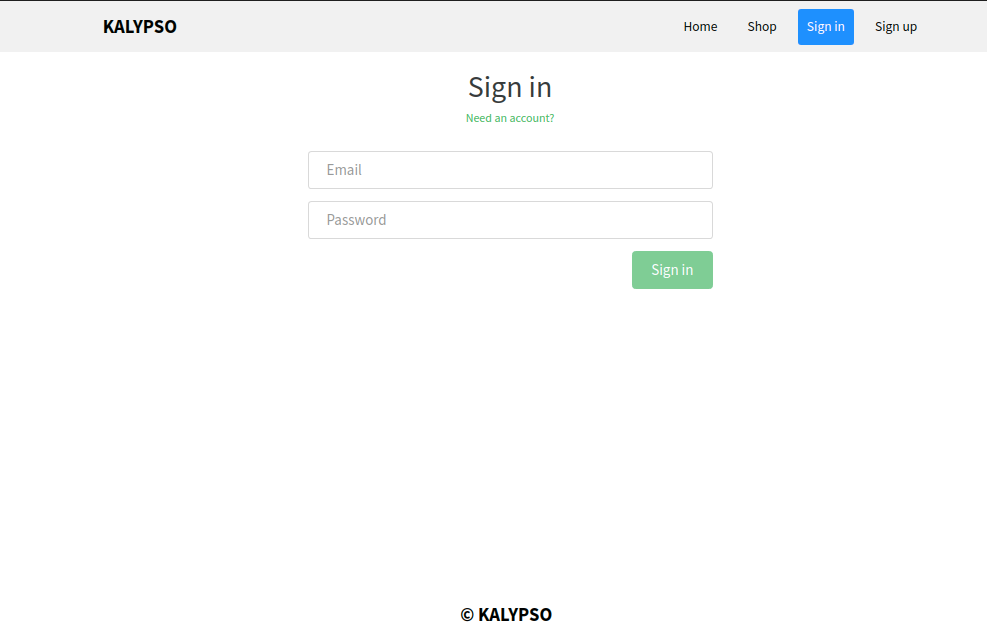
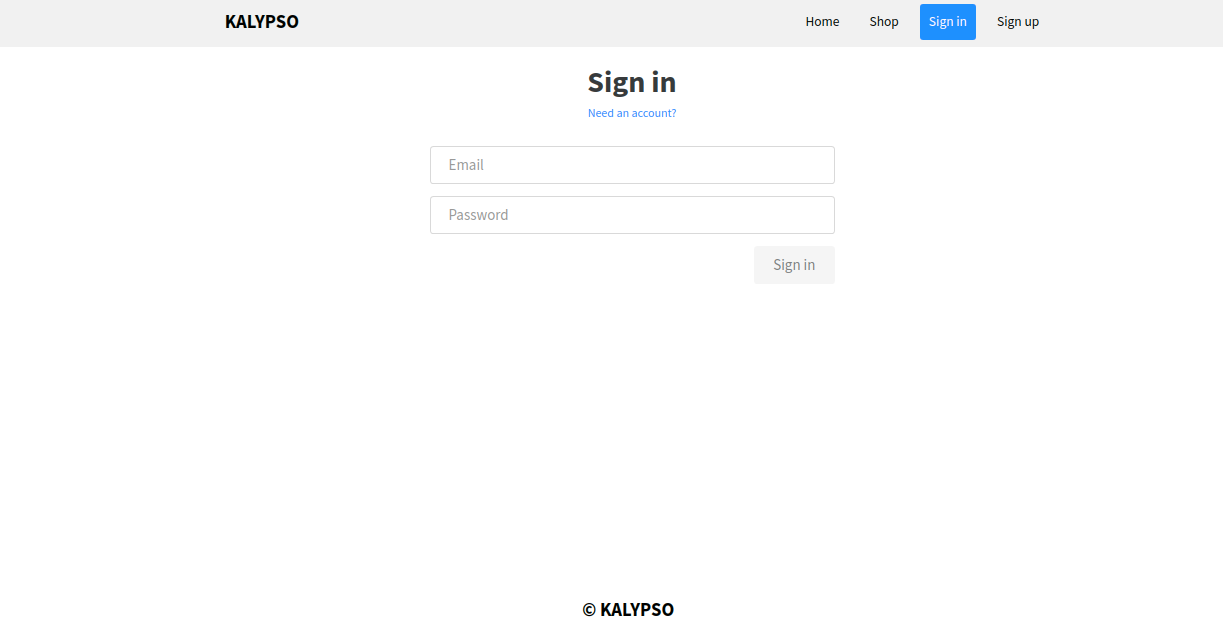
More Css changes

diff --git a/frontend/src/app/auth/auth.component.html b/frontend/src/app/auth/auth.component.html
@@ -33,7 +33,7 @@
                 class="form-control form-control-lg"
                 type="password" />
             </fieldset>
-            <button class="btn btn-lg btn-primary pull-xs-right" [disabled]="!authForm.valid" type="submit">
+            <button class="btn btn-lg  pull-xs-right" [disabled]="!authForm.valid" type="submit">
               {{ title }}
             </button>
           </fieldset>

diff --git a/frontend/src/app/auth/auth.component.ts b/frontend/src/app/auth/auth.component.ts
@@ -6,7 +6,8 @@ import { Errors, UserService } from '../core';
 
 @Component({
   selector: 'app-auth-page',
-  templateUrl: './auth.component.html'
+  templateUrl: './auth.component.html',
+  styleUrls: ['./auth.component.css']
 })
 export class AuthComponent implements OnInit {
   authType: String = '';

diff --git a/frontend/src/app/auth/auth.component.css b/frontend/src/app/auth/auth.component.css
@@ -1,0 +1,11 @@
+.btn-lg{
+    background-color: #f1f1f1;
+}
+
+.text-xs-center a{
+    color: dodgerblue;
+}
+
+h1{
+    font-weight: bold;
+}
